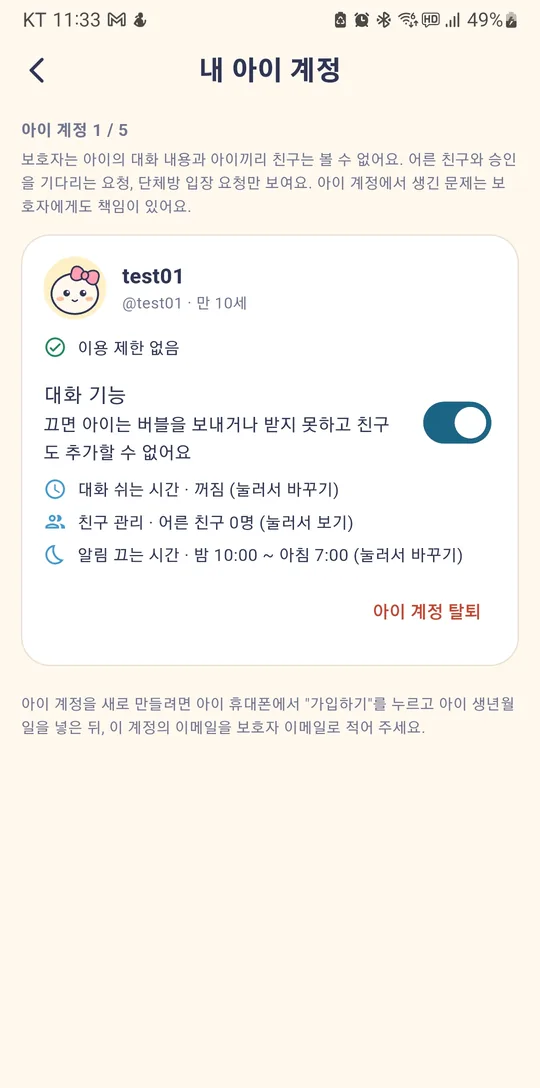
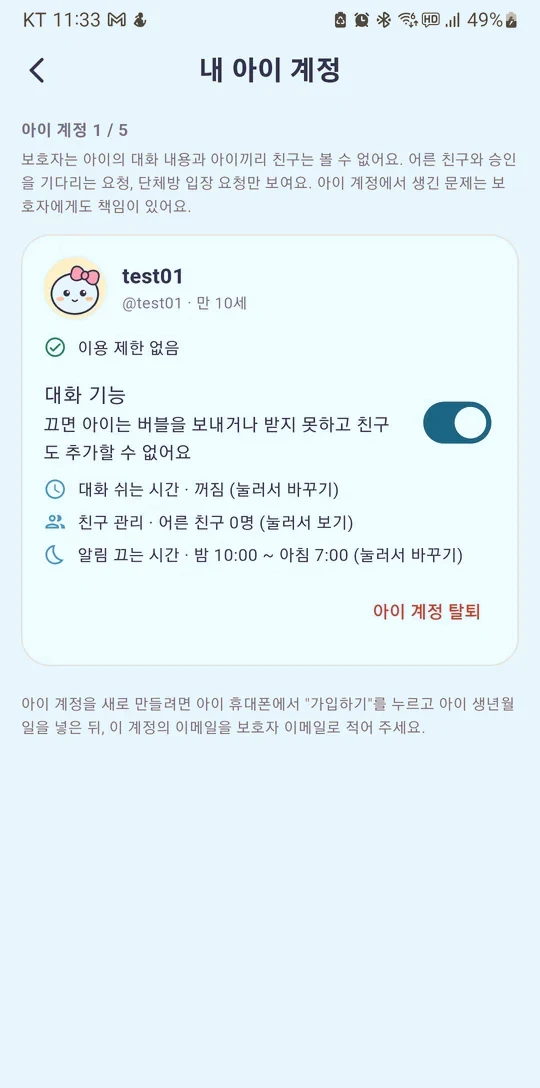
홈페이지 앱 화면을 스토어 사진처럼 블루톤으로
- 앱 화면 사진 6장 속 크림 배경을 앱 기본 테마 연하늘(#E8F5FD)로
- 앱 화면 칸 배경을 하늘색 그라데이션, 휴대폰 테두리를 흰색으로
- 캐시 갱신: 화면 사진 v=3, style.css v=6

Claude-Session: https://claude.ai/code/session_01WRC2PHUQxay7YTQHqua4TC

diff --git a/index.html b/index.html
@@ -16,7 +16,7 @@
 <link rel="preconnect" href="https://fonts.gstatic.com" crossorigin>
 <link href="https://fonts.googleapis.com/css2?family=Jua&family=Gowun+Dodum&display=swap" rel="stylesheet">
 <link rel="stylesheet" href="https://cdn.jsdelivr.net/gh/orioncactus/pretendard@v1.3.9/dist/web/static/pretendard-dynamic-subset.min.css">
-<link rel="stylesheet" href="assets/style.css?v=5">
+<link rel="stylesheet" href="assets/style.css?v=6">
 </head>
 <body>
 <a class="skip" href="#main">본문으로 건너뛰기</a>
@@ -80,17 +80,17 @@
     <h2>앱 화면</h2>
     <p class="sub">개발 중인 실제 앱 화면이에요. 출시 전에 조금씩 바뀔 수 있어요.</p>
     <div class="shots">
-      <figure class="shot"><img src="assets/screens/1_dm_pop.webp?v=2" width="540" height="1088" loading="lazy" alt="버블톡 앱 화면: 말하고 나면 퐁">
+      <figure class="shot"><img src="assets/screens/1_dm_pop.webp?v=3" width="540" height="1088" loading="lazy" alt="버블톡 앱 화면: 말하고 나면 퐁">
         <figcaption><b>말하고 나면 퐁</b>정한 시간이 지나면 버블이 사라져요</figcaption></figure>
-      <figure class="shot"><img src="assets/screens/2_lifetime.webp?v=2" width="540" height="1088" loading="lazy" alt="버블톡 앱 화면: 버블 수명은 방마다">
+      <figure class="shot"><img src="assets/screens/2_lifetime.webp?v=3" width="540" height="1088" loading="lazy" alt="버블톡 앱 화면: 버블 수명은 방마다">
         <figcaption><b>버블 수명은 방마다</b>30초부터 24시간까지 골라요</figcaption></figure>
-      <figure class="shot"><img src="assets/screens/3_guardian.webp?v=2" width="540" height="1088" loading="lazy" alt="버블톡 앱 화면: 보호자가 함께">
+      <figure class="shot"><img src="assets/screens/3_guardian.webp?v=3" width="540" height="1088" loading="lazy" alt="버블톡 앱 화면: 보호자가 함께">
         <figcaption><b>보호자가 함께</b>대화 기능, 쉬는 시간, 친구 승인을 정해요</figcaption></figure>
-      <figure class="shot"><img src="assets/screens/4_qr.webp?v=2" width="540" height="1088" loading="lazy" alt="버블톡 앱 화면: QR로 친구 맺기">
+      <figure class="shot"><img src="assets/screens/4_qr.webp?v=3" width="540" height="1088" loading="lazy" alt="버블톡 앱 화면: QR로 친구 맺기">
         <figcaption><b>QR로 친구 맺기</b>전화번호 없이 아이디와 QR로 연결돼요</figcaption></figure>
-      <figure class="shot"><img src="assets/screens/5_group.webp?v=2" width="540" height="1088" loading="lazy" alt="버블톡 앱 화면: 가족 단체방">
+      <figure class="shot"><img src="assets/screens/5_group.webp?v=3" width="540" height="1088" loading="lazy" alt="버블톡 앱 화면: 가족 단체방">
         <figcaption><b>가족 단체방</b>띠와 핀버블로 공지는 남기고, 공감으로 답해요</figcaption></figure>
-      <figure class="shot"><img src="assets/screens/6_quiz.webp?v=2" width="540" height="1088" loading="lazy" alt="버블톡 앱 화면: 함께 푸는 퀴즈">
+      <figure class="shot"><img src="assets/screens/6_quiz.webp?v=3" width="540" height="1088" loading="lazy" alt="버블톡 앱 화면: 함께 푸는 퀴즈">
         <figcaption><b>함께 푸는 퀴즈</b>스피드 퀴즈로 누가 먼저 맞히는지 겨뤄요</figcaption></figure>
     </div>
   </div>

diff --git a/assets/style.css b/assets/style.css
@@ -313,3 +313,8 @@ footer p { margin: 4px 0; }
   .shots { display: flex; gap: 16px; overflow-x: auto; scroll-snap-type: x mandatory; padding: 4px 4px 16px; margin: 0 -20px; padding-left: 20px; padding-right: 20px; -webkit-overflow-scrolling: touch; }
   .shot { flex: 0 0 62%; scroll-snap-align: center; }
 }
+
+/* 앱 화면 칸: 스토어 사진처럼 하늘색 배경 + 흰 테두리 (2026-11-19) */
+#screens { background: linear-gradient(180deg, var(--sky) 0%, #A9DAF6 100%); }
+#screens .sub, #screens .shot figcaption { color: var(--navy); }
+#screens .shot img { border-color: #fff; background: #E8F5FD; box-shadow: 0 14px 34px rgba(47, 53, 84, .22); }

diff --git a/admin.html b/admin.html
@@ -16,7 +16,7 @@
 <link rel="preconnect" href="https://fonts.gstatic.com" crossorigin>
 <link href="https://fonts.googleapis.com/css2?family=Jua&family=Gowun+Dodum&display=swap" rel="stylesheet">
 <link rel="stylesheet" href="https://cdn.jsdelivr.net/gh/orioncactus/pretendard@v1.3.9/dist/web/static/pretendard-dynamic-subset.min.css">
-<link rel="stylesheet" href="assets/style.css?v=5">
+<link rel="stylesheet" href="assets/style.css?v=6">
 <meta name="robots" content="noindex">
 <script src="https://cdn.jsdelivr.net/npm/@supabase/supabase-js@2.49.4/dist/umd/supabase.min.js"></script>
 <script src="assets/board.js?v=2"></script>

diff --git a/inquiry.html b/inquiry.html
@@ -16,7 +16,7 @@
 <link rel="preconnect" href="https://fonts.gstatic.com" crossorigin>
 <link href="https://fonts.googleapis.com/css2?family=Jua&family=Gowun+Dodum&display=swap" rel="stylesheet">
 <link rel="stylesheet" href="https://cdn.jsdelivr.net/gh/orioncactus/pretendard@v1.3.9/dist/web/static/pretendard-dynamic-subset.min.css">
-<link rel="stylesheet" href="assets/style.css?v=5">
+<link rel="stylesheet" href="assets/style.css?v=6">
 <script src="https://cdn.jsdelivr.net/npm/@supabase/supabase-js@2.49.4/dist/umd/supabase.min.js"></script>
 <script src="assets/board.js?v=2"></script>
 </head>

diff --git a/notice.html b/notice.html
@@ -16,7 +16,7 @@
 <link rel="preconnect" href="https://fonts.gstatic.com" crossorigin>
 <link href="https://fonts.googleapis.com/css2?family=Jua&family=Gowun+Dodum&display=swap" rel="stylesheet">
 <link rel="stylesheet" href="https://cdn.jsdelivr.net/gh/orioncactus/pretendard@v1.3.9/dist/web/static/pretendard-dynamic-subset.min.css">
-<link rel="stylesheet" href="assets/style.css?v=5">
+<link rel="stylesheet" href="assets/style.css?v=6">
 <script src="https://cdn.jsdelivr.net/npm/@supabase/supabase-js@2.49.4/dist/umd/supabase.min.js"></script>
 <script src="assets/board.js?v=2"></script>
 </head>

diff --git a/404.html b/404.html
@@ -16,7 +16,7 @@
 <link rel="preconnect" href="https://fonts.gstatic.com" crossorigin>
 <link href="https://fonts.googleapis.com/css2?family=Jua&family=Gowun+Dodum&display=swap" rel="stylesheet">
 <link rel="stylesheet" href="https://cdn.jsdelivr.net/gh/orioncactus/pretendard@v1.3.9/dist/web/static/pretendard-dynamic-subset.min.css">
-<link rel="stylesheet" href="/assets/style.css?v=5">
+<link rel="stylesheet" href="/assets/style.css?v=6">
 </head>
 <body>
 <a class="skip" href="#main">본문으로 건너뛰기</a>

diff --git a/child-safety.html b/child-safety.html
@@ -16,7 +16,7 @@
 <link rel="preconnect" href="https://fonts.gstatic.com" crossorigin>
 <link href="https://fonts.googleapis.com/css2?family=Jua&family=Gowun+Dodum&display=swap" rel="stylesheet">
 <link rel="stylesheet" href="https://cdn.jsdelivr.net/gh/orioncactus/pretendard@v1.3.9/dist/web/static/pretendard-dynamic-subset.min.css">
-<link rel="stylesheet" href="assets/style.css?v=5">
+<link rel="stylesheet" href="assets/style.css?v=6">
 </head>
 <body>
 <a class="skip" href="#main">본문으로 건너뛰기</a>

diff --git a/delete-account.html b/delete-account.html
@@ -16,7 +16,7 @@
 <link rel="preconnect" href="https://fonts.gstatic.com" crossorigin>
 <link href="https://fonts.googleapis.com/css2?family=Jua&family=Gowun+Dodum&display=swap" rel="stylesheet">
 <link rel="stylesheet" href="https://cdn.jsdelivr.net/gh/orioncactus/pretendard@v1.3.9/dist/web/static/pretendard-dynamic-subset.min.css">
-<link rel="stylesheet" href="assets/style.css?v=5">
+<link rel="stylesheet" href="assets/style.css?v=6">
 </head>
 <body>
 <a class="skip" href="#main">본문으로 건너뛰기</a>

diff --git a/faq.html b/faq.html
@@ -16,7 +16,7 @@
 <link rel="preconnect" href="https://fonts.gstatic.com" crossorigin>
 <link href="https://fonts.googleapis.com/css2?family=Jua&family=Gowun+Dodum&display=swap" rel="stylesheet">
 <link rel="stylesheet" href="https://cdn.jsdelivr.net/gh/orioncactus/pretendard@v1.3.9/dist/web/static/pretendard-dynamic-subset.min.css">
-<link rel="stylesheet" href="assets/style.css?v=5">
+<link rel="stylesheet" href="assets/style.css?v=6">
 </head>
 <body>
 <a class="skip" href="#main">본문으로 건너뛰기</a>

diff --git a/guardian.html b/guardian.html
@@ -16,7 +16,7 @@
 <link rel="preconnect" href="https://fonts.gstatic.com" crossorigin>
 <link href="https://fonts.googleapis.com/css2?family=Jua&family=Gowun+Dodum&display=swap" rel="stylesheet">
 <link rel="stylesheet" href="https://cdn.jsdelivr.net/gh/orioncactus/pretendard@v1.3.9/dist/web/static/pretendard-dynamic-subset.min.css">
-<link rel="stylesheet" href="assets/style.css?v=5">
+<link rel="stylesheet" href="assets/style.css?v=6">
 </head>
 <body>
 <a class="skip" href="#main">본문으로 건너뛰기</a>

diff --git a/privacy.html b/privacy.html
@@ -16,7 +16,7 @@
 <link rel="preconnect" href="https://fonts.gstatic.com" crossorigin>
 <link href="https://fonts.googleapis.com/css2?family=Jua&family=Gowun+Dodum&display=swap" rel="stylesheet">
 <link rel="stylesheet" href="https://cdn.jsdelivr.net/gh/orioncactus/pretendard@v1.3.9/dist/web/static/pretendard-dynamic-subset.min.css">
-<link rel="stylesheet" href="assets/style.css?v=5">
+<link rel="stylesheet" href="assets/style.css?v=6">
 </head>
 <body>
 <a class="skip" href="#main">본문으로 건너뛰기</a>

diff --git a/terms.html b/terms.html
@@ -16,7 +16,7 @@
 <link rel="preconnect" href="https://fonts.gstatic.com" crossorigin>
 <link href="https://fonts.googleapis.com/css2?family=Jua&family=Gowun+Dodum&display=swap" rel="stylesheet">
 <link rel="stylesheet" href="https://cdn.jsdelivr.net/gh/orioncactus/pretendard@v1.3.9/dist/web/static/pretendard-dynamic-subset.min.css">
-<link rel="stylesheet" href="assets/style.css?v=5">
+<link rel="stylesheet" href="assets/style.css?v=6">
 </head>
 <body>
 <a class="skip" href="#main">본문으로 건너뛰기</a>
